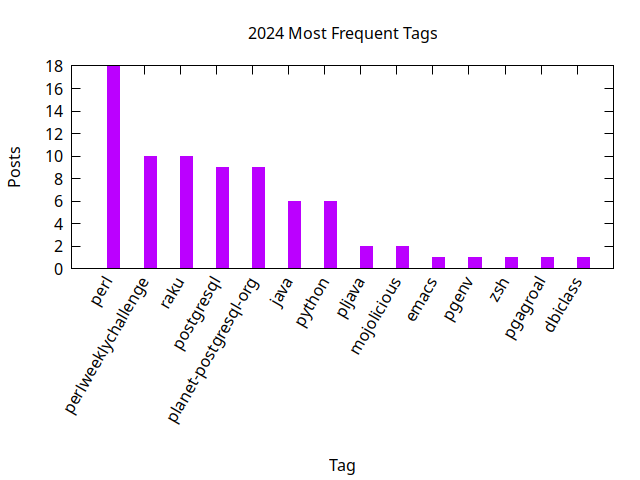
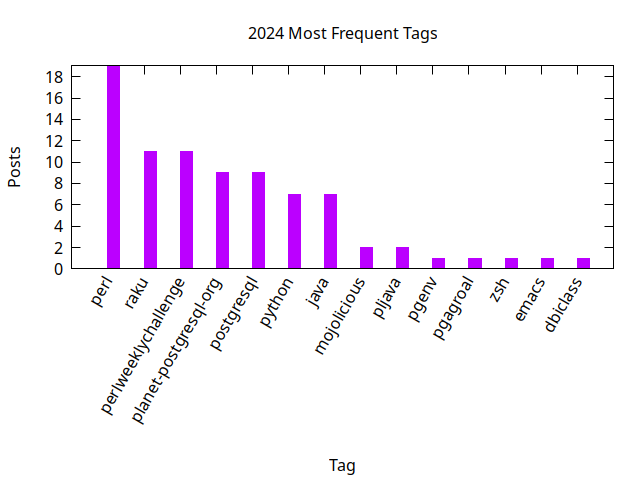
Stats update

diff --git a/_includes/stats/2024.md b/_includes/stats/2024.md
@@ -1,23 +1,23 @@
 <a name="2024" />
 ## 2024 (work in progress)
 
-**26 total posts** have been written on 2024.
+**27 total posts** have been written on 2024.
 There have been *14 different tags* used, the most
 popular being (sorted by number of posts):
  
-- *perl* (18 posts)  
-- *perlweeklychallenge* (10 posts)  
-- *raku* (10 posts)  
-- *postgresql* (9 posts)  
+- *perl* (19 posts)  
+- *raku* (11 posts)  
+- *perlweeklychallenge* (11 posts)  
 - *planet-postgresql-org* (9 posts)  
-- *java* (6 posts)  
-- *python* (6 posts)  
-- *pljava* (2 posts)  
+- *postgresql* (9 posts)  
+- *python* (7 posts)  
+- *java* (7 posts)  
 - *mojolicious* (2 posts)  
-- *emacs* (1 posts)  
+- *pljava* (2 posts)  
 - *pgenv* (1 posts)  
-- *zsh* (1 posts)  
 - *pgagroal* (1 posts)  
+- *zsh* (1 posts)  
+- *emacs* (1 posts)  
 - *dbiclass* (1 posts).<br/>
 <br/>
 The following is the overall 2024 post ratio by month:
@@ -37,7 +37,7 @@ The following is the overall 2024 post ratio by tag (showing max 30 tags):
 
 <div align="right">
 <small>
-Last generated on 2024-03-01 at 14:39
+Last generated on 2024-03-04 at 16:05
 </small>
 </div>
 
